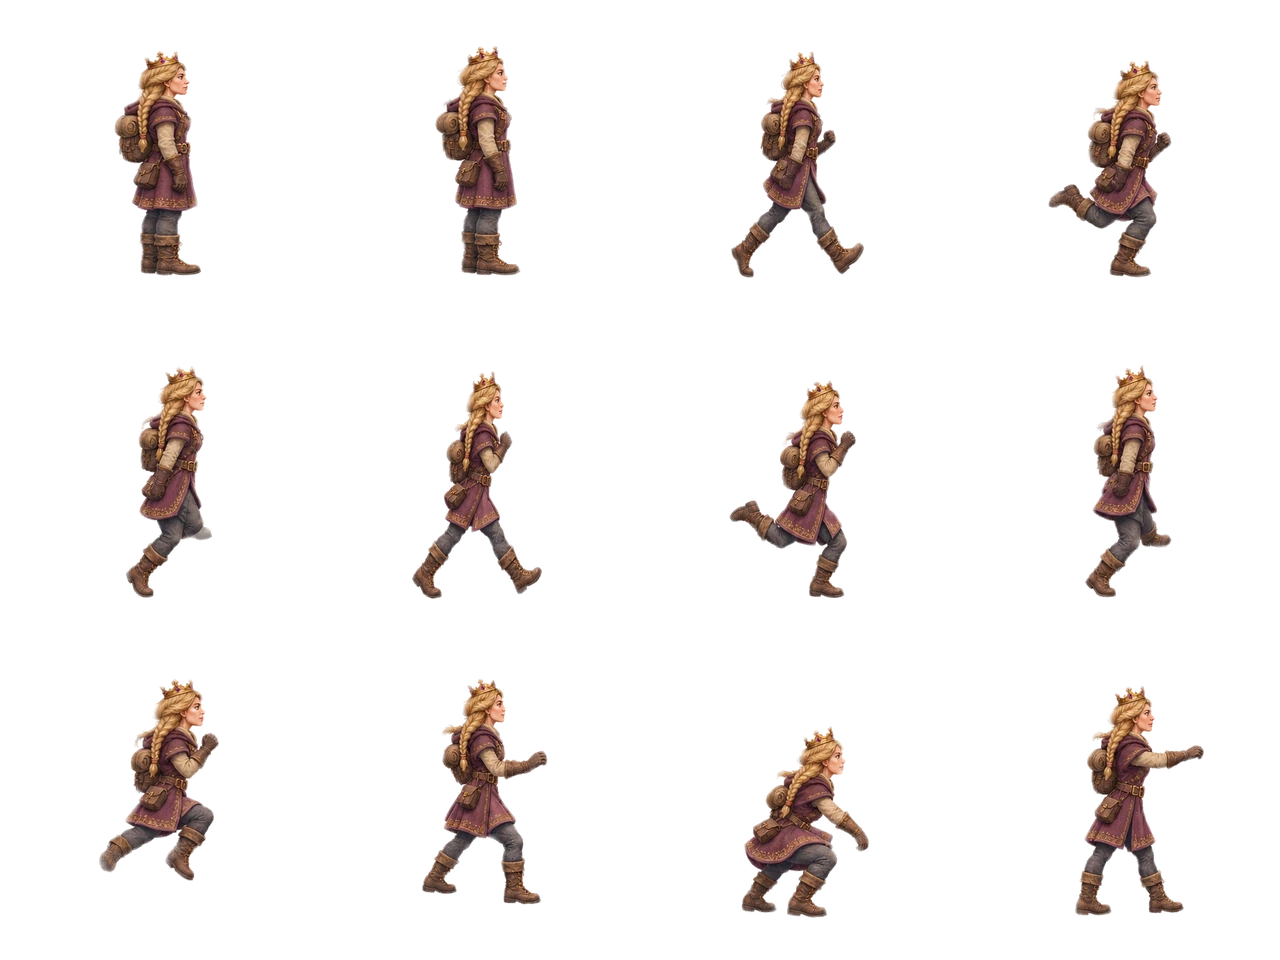
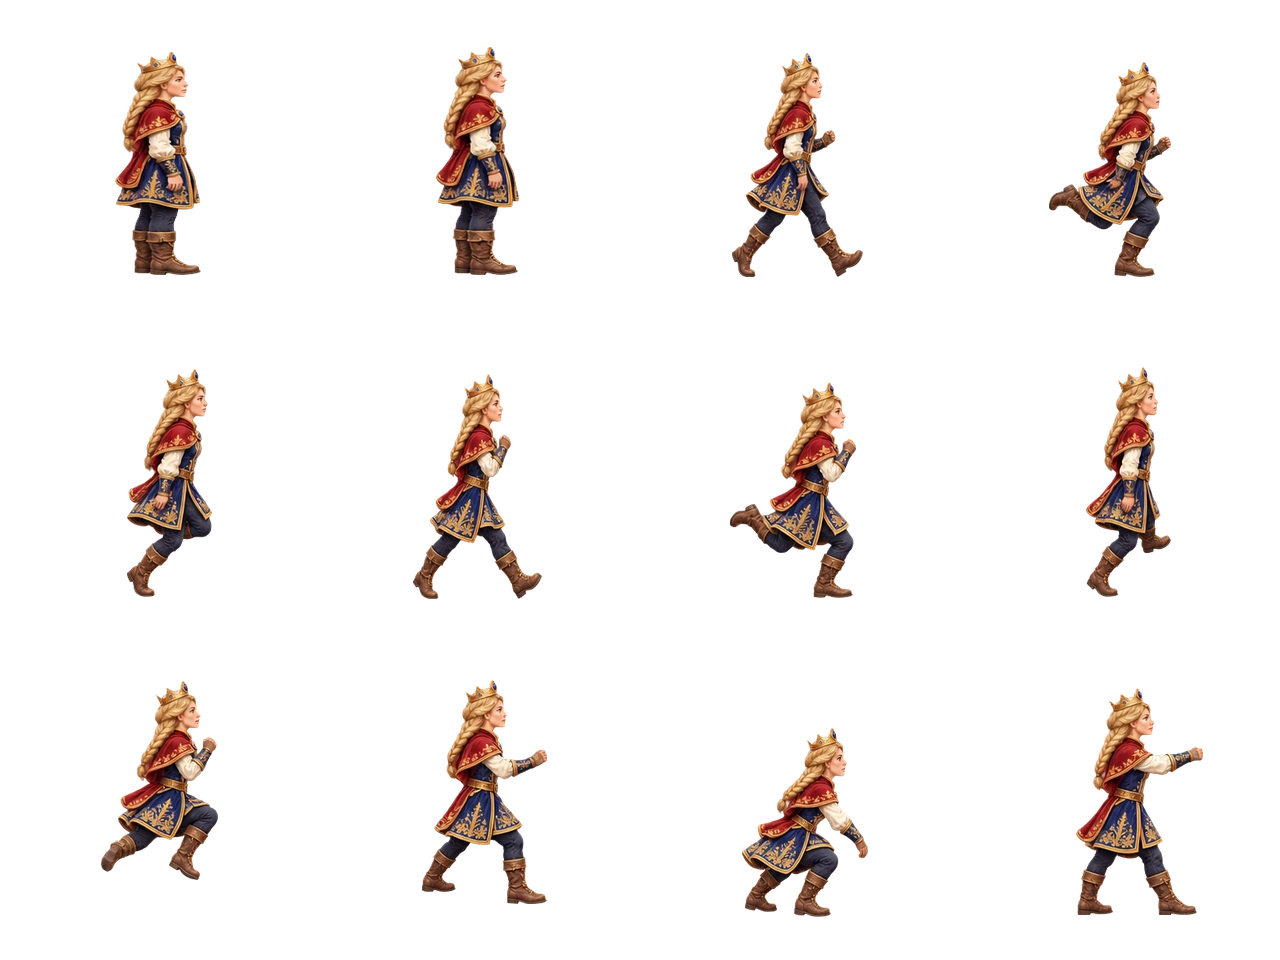
Dress the princess in royal regalia

diff --git a/phaser/CHARACTER-ART.md b/phaser/CHARACTER-ART.md
@@ -28,8 +28,8 @@ row shows four different seated poses with a shared hip pivot. The near
 leg and boot are visible along the mount's flank.
 
 The princess uses a dedicated 1280 × 960 painting with the shared human
-poses. Her plum traveling coat, gold crown, and blonde braid carry across
-the locomotion and rider art. The locomotion atlas retains the shared
+poses. Her sapphire coat, gold embroidery, crimson cape, crown, and blonde braid
+carry across the locomotion, rider, and fainted art. The locomotion atlas retains the shared
 world-space foot origin and animation clips.
 
 Pack the model's painted alpha sheet and derive the runtime manifest from
